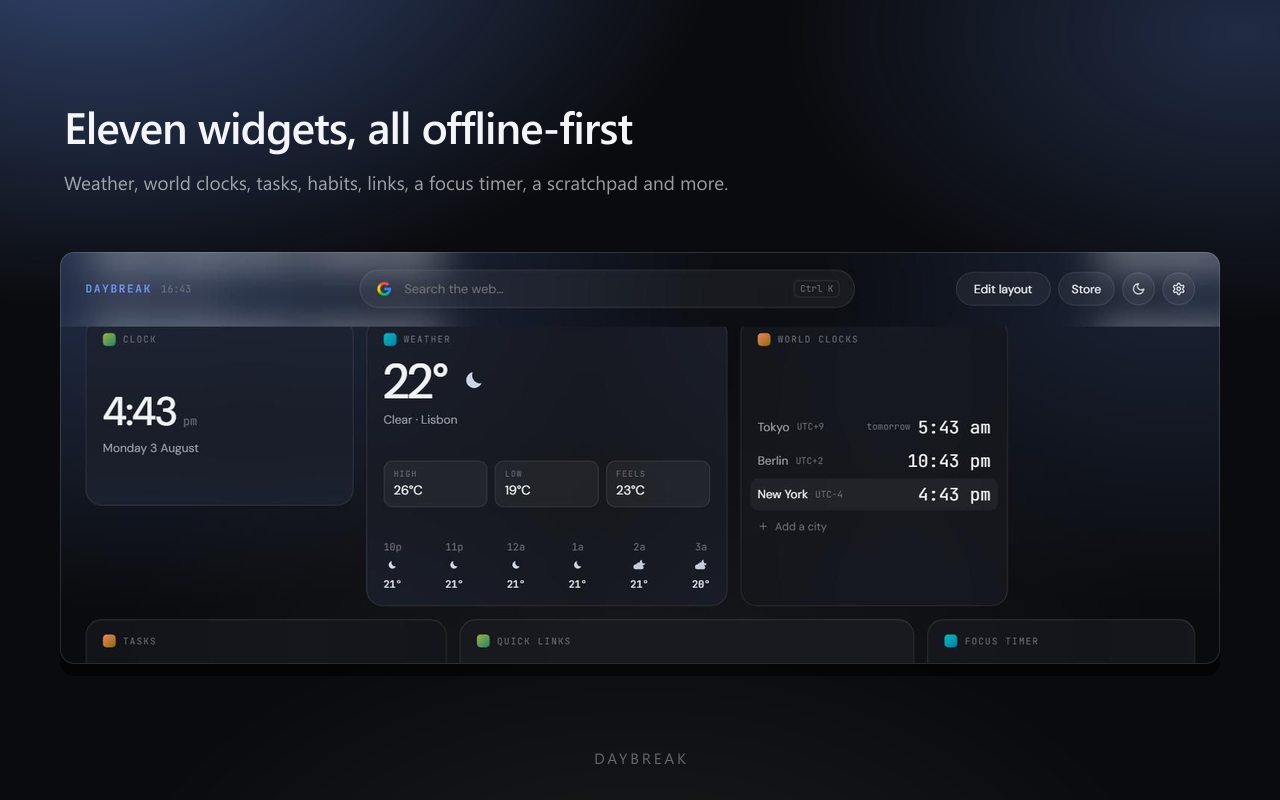
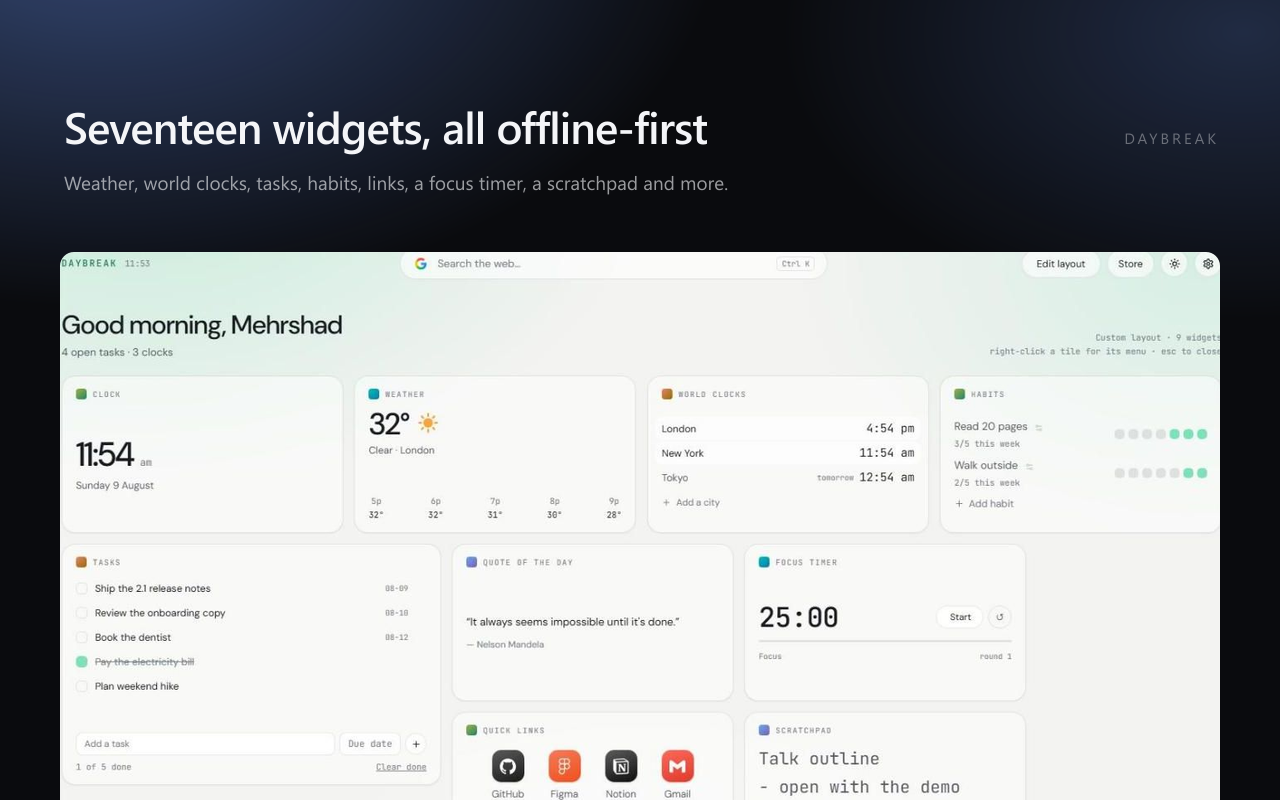
Recapture the listing images, and add a sixth
Every screenshot is on a different theme, accent and background now, so
the listing shows what is adjustable rather than stating it in the
copy — dark/blue/Nebula, light/green/Mesh, dark/orange/Ridge,
dark/pink/Aurora, light/purple/Prism, and light/neutral/Lattice for the
new "Customize your own way" card, which also carries a rounder corner
radius and heavier tiles so it reads as a different board rather than
the same one recoloured. The layout card is captured mid-drag, tile
lifted off the board with the rest already moved aside.

The boards themselves are arranged to fit the frame with nothing clipped
or half-scrolled, and carry believable content instead of "task1" and
"test note".

Three fixes to the generator, all from the new captures:

- The wordmark sat along the bottom of the card, where a capture taller
  than the space under the caption ran straight into it. It moves up
  beside the title; the screenshot keeps running off the bottom edge,
  which is the intent.
- The marquee derived its crop height from nothing, so a capture with a
  taller aspect produced a slice bigger than the tile it composites
  onto, and the build died. It is derived from the target width now.
- Captures taken through browser automation carry a highlight along
  their edges, and the pointer has to be parked in a corner. Both are
  trimmed with the scrollbar.

Copy: eight backgrounds became twelve, eleven widgets became seventeen,
[…]

diff --git a/store-assets/SUBMISSION.md b/store-assets/SUBMISSION.md
@@ -90,7 +90,7 @@ not match the manifest is a common rejection.
 > Crypto · On this day · News · Calendar · Quote of the day · Recent Tabs
 >
 > MADE YOURS
-> Dark and light themes, or follow your system. Six accent colours, eight
+> Dark and light themes, or follow your system. Six accent colours, twelve
 > generated backgrounds, adjustable tile opacity, corner radius and page zoom.
 > Frosted glass, or solid surfaces if you prefer.
 >
@@ -132,6 +132,16 @@ not match the manifest is a common rejection.
 >   away
 > - Hover any icon-only control for a quick label — what it does, not just
 >   what it looks like
+> - Quick Links now show the real mark of the site they point at, resolved
+>   from the address rather than the name — so a link you called "Work" still
+>   arrives wearing its own icon. 114 brands built in, and Chrome's own cached
+>   favicon for anything outside that list
+> - Four more backgrounds — Prism, Lattice, Tide and Spot — and every one of
+>   them now reads properly on the neutral accent instead of coming out a
+>   plain page
+> - Dragging a tile is smooth the whole way across the board, including
+>   through a reorder, and the tile it would displace is outlined as you go
+> - An open drawer no longer sits on top of the widgets on a mid-width window
 > - Everything else — sliders, the search box's clear button, dropdown
 >   placement — now matches the theme completely, in both light and dark
 
@@ -145,6 +155,7 @@ not match the manifest is a common rejection.
 | Screenshot 3 (1280x800) | `screenshot-3.png` — layout mode |
 | Screenshot 4 (1280x800) | `screenshot-4.png` — the widget browser |
 | Screenshot 5 (1280x800) | `screenshot-5.png` — themes and backgrounds |
+| Screenshot 6 (1280x800) | `screenshot-6.png` — a board made your own |
 | Small promo tile (440x280) | `promo-tile-440x280.png` |
 | Marquee promo tile (1400x560) | `marquee-1400x560.png` — only used if the store features the item |
 
@@ -214,8 +225,9 @@ reaches the developer, who operates no server.
 - [ ] `manifest.json` name reads `Daybreak - New Tab` and version `2.1.0`
 - [ ] loaded the built `dist/` unpacked once, over a 2.0.0 profile, and
       confirmed existing settings, board layout and widget content are intact
-- [ ] store icon, five screenshots, the small promo tile and the marquee
-      uploaded — re-captured to include at least one of the six new widgets
+- [ ] store icon, six screenshots, the small promo tile and the marquee
+      uploaded — re-captured on 2026-08-09, each one on a different theme,
+      accent and background so the listing shows what is adjustable
 - [ ] release notes filled in
 - [ ] every permission justification filled in, including `favicon` and the
       optional host permission
